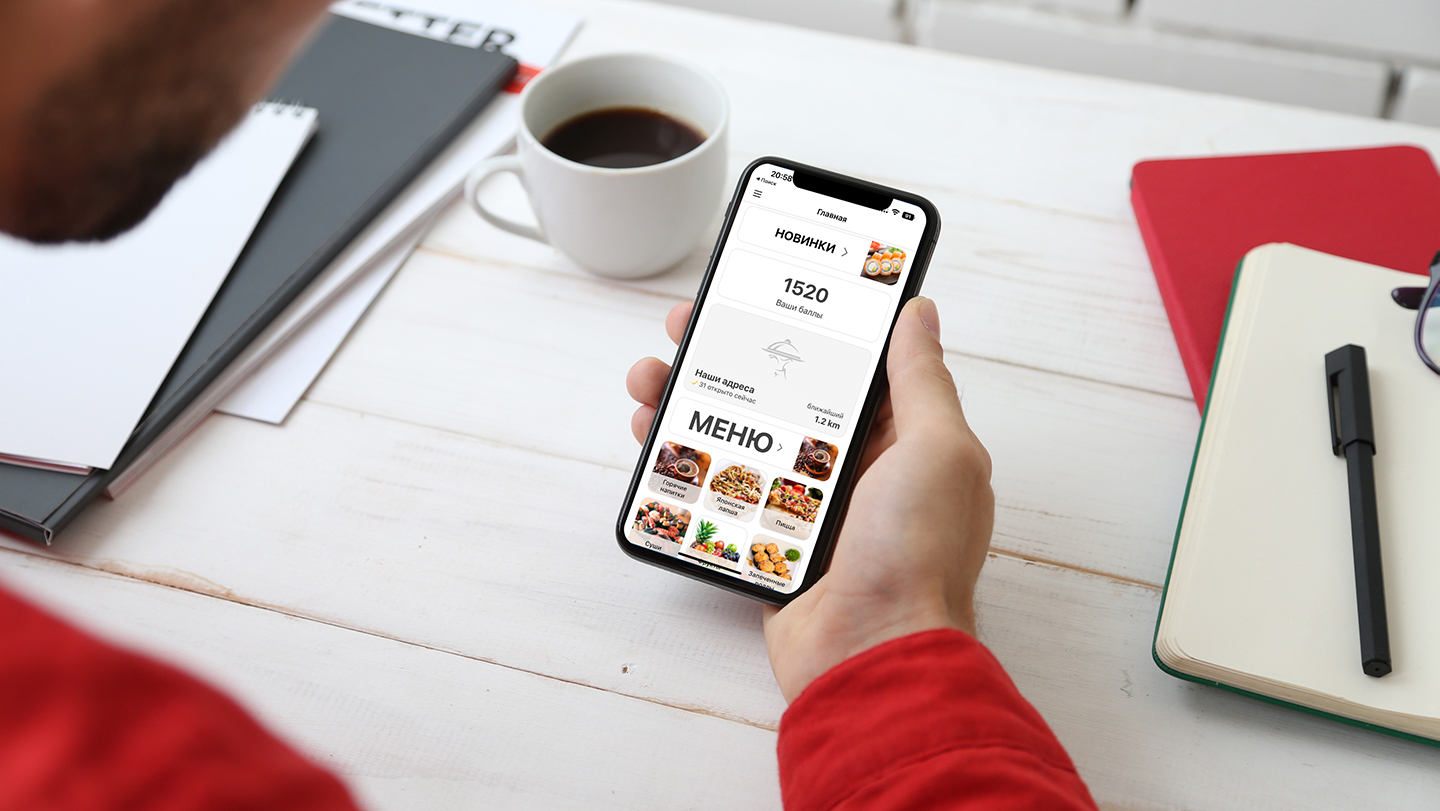
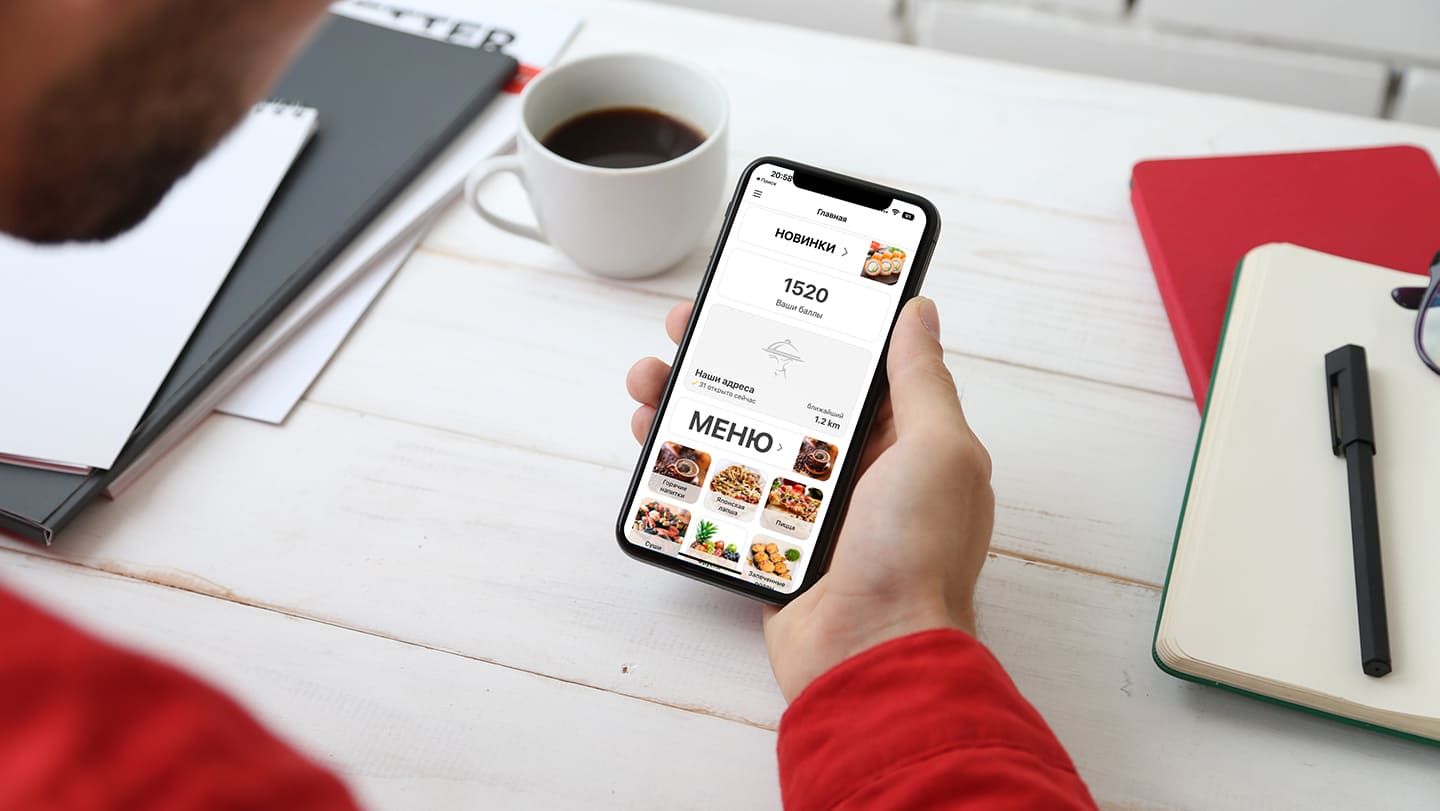
compressed large pics, text & style fixes

Changed region(s): [[0.4375, 0.5549, 0.5938, 0.6473], [0.4375, 0.6165, 0.5625, 0.7398], [0.5938, 0.3083, 0.625, 0.3391]]

diff --git a/pages/about.vue b/pages/about.vue
@@ -250,7 +250,7 @@ export default {
                 {
                 'num': 'более 12',
                 'small': 'Стран мира, где работает технология YUMA',
-                'back': 'Великобритания, Ирландия, США, Австралия, Швейцария, Нидерланды, Индия, ОАЭ, ЮАР, Украина, Казахстан, Беларусь, Россия.'
+                'back': 'Россия, Беларусь, Казахстан, Великобритания, Ирландия, Швейцария, Нидерланды, Индия, ОАЭ, ЮАР, США, Австралия и другие.'
                 },
             ],
             data: [
@@ -682,6 +682,17 @@ export default {
 
                 @media screen and (max-width: $--screen-sm-min) {
                     flex-direction: column;
+                }
+            }
+
+            @media screen and (max-width: $--screen-lg-min) {
+                &.is_active {
+                    padding-right: 45px;
+                }
+            }
+            @media screen and (max-width: $--screen-sm-min) {
+                &.is_active {
+                    padding-right: 20px;
                 }
             }
         }

diff --git a/assets/scss/_mixins.scss b/assets/scss/_mixins.scss
@@ -142,7 +142,6 @@
     @media screen and (max-width: $--screen-lg-min) {
         &.is_active {
             padding: 20px;
-            padding-right: 45px;
         }
     }
 
@@ -154,7 +153,6 @@
 
         &.is_active {
             padding-bottom: 52px;
-            padding-right: 20px;
         }
     }
 }
